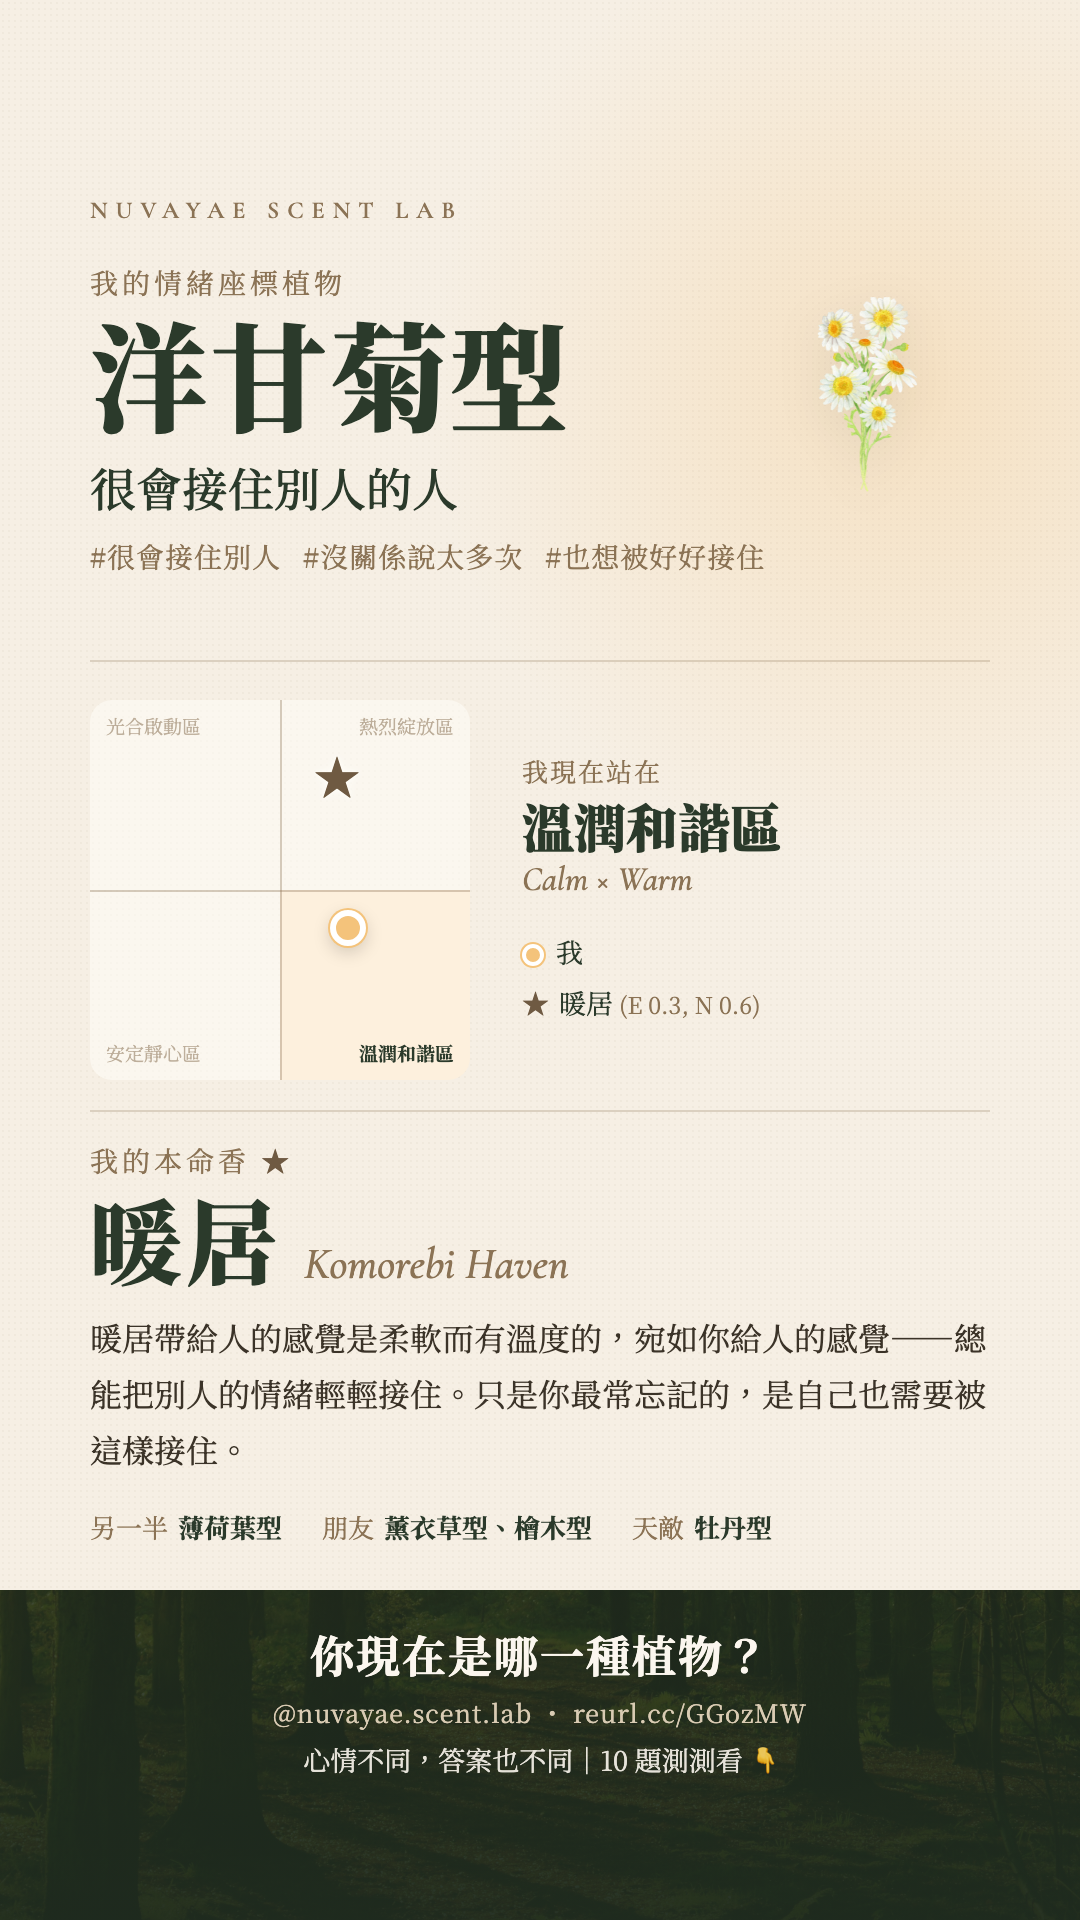
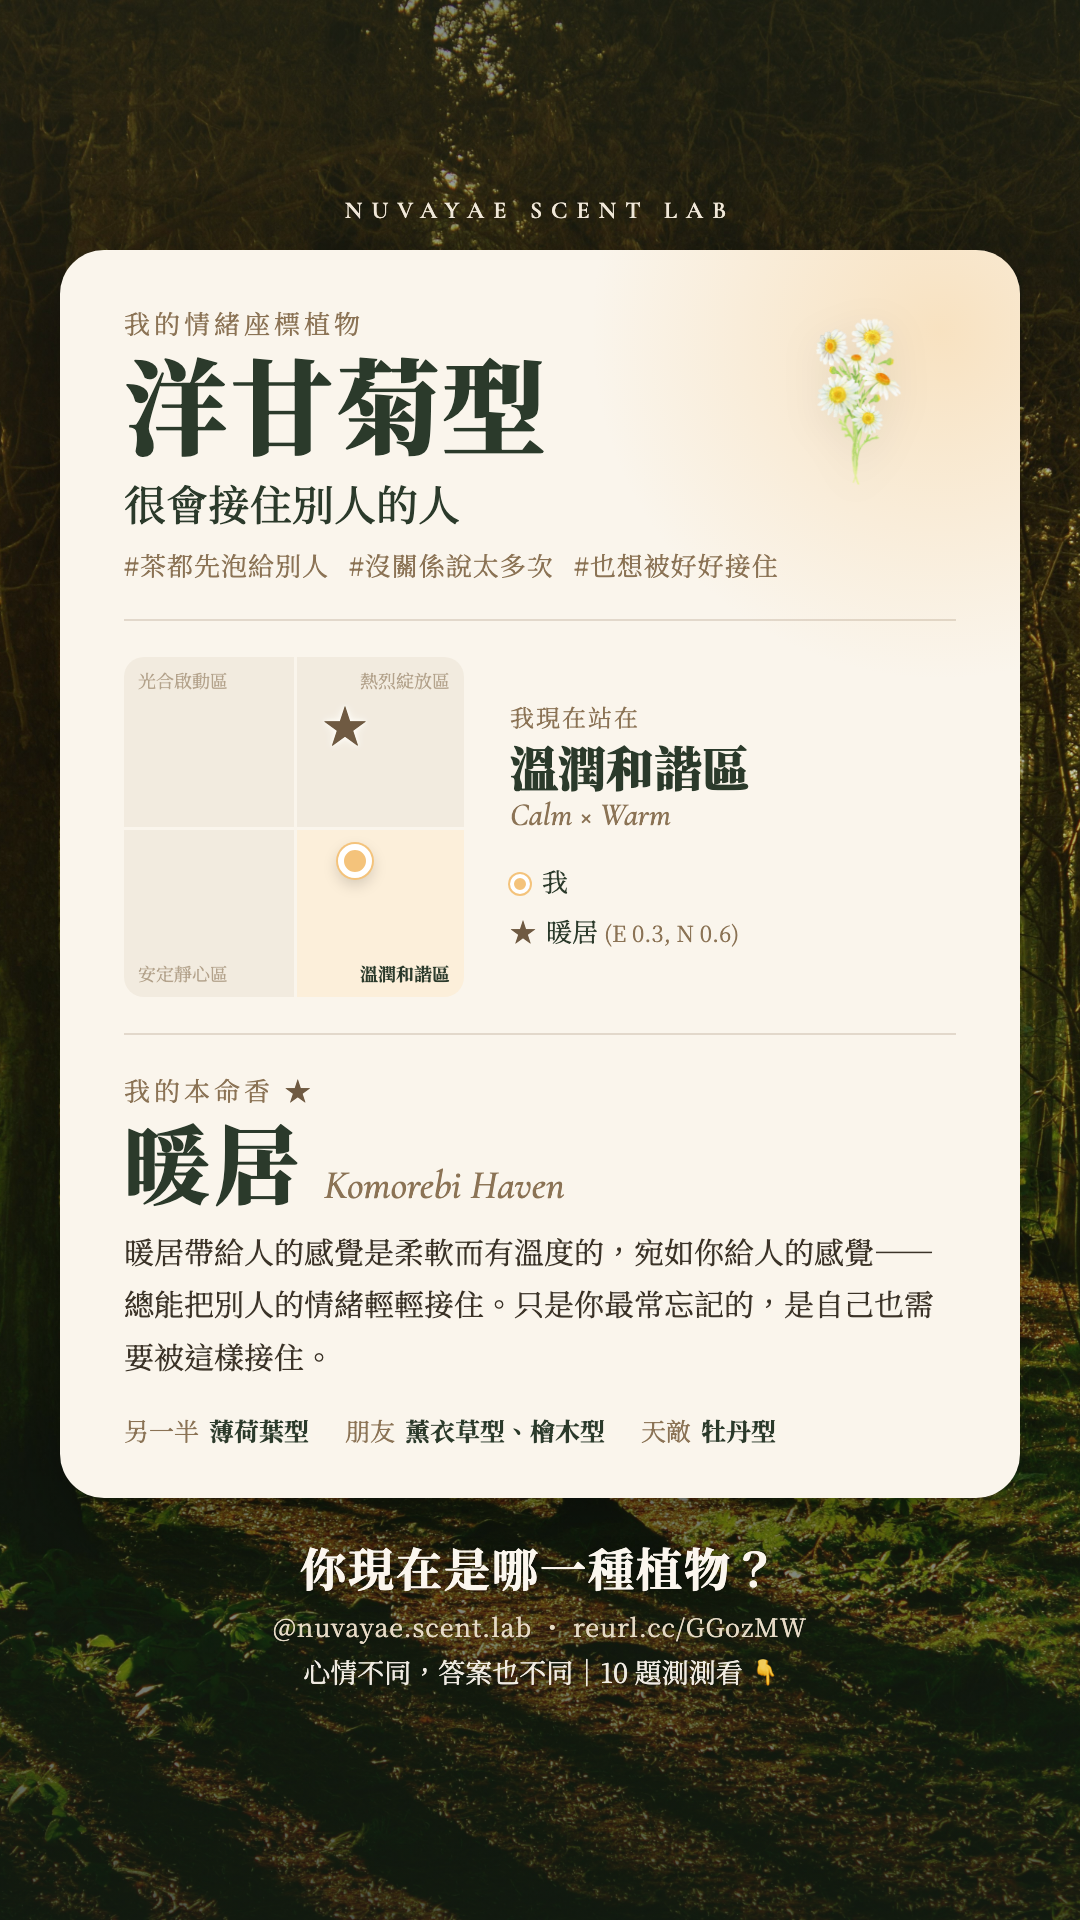
限動分享圖改回森林背景，內容收進一張主卡
- 森林全幅背景＋奶油色主卡，卡內不套框，以字級與留白分層
- 卡片右上植物色暈染、所在象限植物色底
- 呼籲移到卡片下方森林上，下方留給連結貼圖
- 扁柏、檜木、洋甘菊、薄荷葉的人格標籤避免與副標重複
- 分享圖快取版本號更新為 v=7

diff --git a/tools/story-card.html b/tools/story-card.html
@@ -8,12 +8,12 @@
   用法：tools/story-card.html?key=lavender
   產圖：bash tools/render-story-images.sh（輸出到 share/<key>.png）
 
-  設計：雜誌海報式，去掉外框與卡片，用字級和留白分層。
+  設計：森林全幅背景＋一張奶油色主卡，卡內不再套框，用字級與留白分層。
     1. 身分（我是誰）：植物名＋副標那句話＋人格標籤 → 讓人想分享
     2. 座標（我在哪）：象限圖只放兩個點，說明放右側圖例 → 清楚
     3. 本命香（為什麼是這支）：香名放大＋那句話 → 認同感、想擁有
-    4. 底部森林帶：測驗呼籲，下方留空給「連結」貼圖
-  每種植物用自己的顏色做背景暈染與象限底色，六張圖各有個性。
+    4. 卡片下方森林上：測驗呼籲，再往下留空給「連結」貼圖
+  卡片右上用植物自己的顏色做暈染，象限底色也用植物色，六張圖各有個性。
   安全區：上方約 250px、下方約 250px 會被 IG 介面蓋住。
 -->
 <link rel="preconnect" href="https://fonts.googleapis.com">
@@ -21,141 +21,139 @@
 <link href="https://fonts.googleapis.com/css2?family=Cormorant+Garamond:ital,wght@0,500;0,600;1,500&family=Noto+Serif+TC:wght@400;500;700;900&display=swap" rel="stylesheet">
 <style>
   * { box-sizing: border-box; margin: 0; padding: 0; }
-  html, body { width: 1080px; height: 1920px; overflow: hidden; }
-  body { font-family: 'Noto Serif TC', serif; color: #2b3a2b; background: #f6efe4; }
+  html, body { width: 1080px; height: 1920px; overflow: hidden; background: #24331f; }
+  body { font-family: 'Noto Serif TC', serif; color: #2b3a2b; }
 
-  .story { position: relative; width: 1080px; height: 1920px; overflow: hidden; background: #f6efe4; }
-  /* 植物色暈染：每張圖自己的氛圍 */
-  .wash { position: absolute; width: 1100px; height: 1100px; right: -380px; top: -160px; border-radius: 50%;
-          background: radial-gradient(circle, var(--c) 0%, transparent 62%); opacity: 0.32; }
-  .grain { position: absolute; inset: 0; background: radial-gradient(rgba(139,115,85,0.05) 1px, transparent 1px); background-size: 6px 6px; }
+  .story { position: relative; width: 1080px; height: 1920px; overflow: hidden;
+           background: url('../images/forest-bg.jpg') center / cover no-repeat; }
+  .story::before { content: ''; position: absolute; inset: 0;
+    background: linear-gradient(180deg, rgba(28,40,28,0.55) 0%, rgba(28,40,28,0.2) 35%, rgba(28,40,28,0.35) 70%, rgba(20,30,20,0.75) 100%); }
 
-  .inner { position: absolute; left: 90px; right: 90px; top: 0; }
+  .brand { position: absolute; top: 196px; left: 0; right: 0; text-align: center;
+           font-family: 'Cormorant Garamond', serif; font-weight: 600; font-size: 24px; letter-spacing: 9px; color: #f3eadb; }
 
-  .brand { position: absolute; top: 196px; left: 90px; font-family: 'Cormorant Garamond', serif; font-weight: 600;
-           font-size: 24px; letter-spacing: 8px; color: #8b7355; }
+  /* 主卡 */
+  .card { position: absolute; top: 250px; left: 60px; right: 60px;
+          background: #faf5ec; border-radius: 44px; overflow: hidden;
+          padding: 54px 64px 50px; box-shadow: 0 30px 80px rgba(0,0,0,0.35); }
+  .wash { position: absolute; width: 760px; height: 760px; right: -300px; top: -300px; border-radius: 50%;
+          background: radial-gradient(circle, var(--c) 0%, transparent 65%); opacity: 0.38; pointer-events: none; }
+  .card > *:not(.wash) { position: relative; }
 
   /* 1. 身分 */
-  .hero { position: absolute; top: 262px; left: 90px; right: 90px; }
-  .kicker { font-size: 28px; color: #8b7355; letter-spacing: 4px; }
-  .name { font-size: 118px; font-weight: 900; line-height: 1.1; margin-top: 6px; letter-spacing: 2px; }
-  .identity { font-size: 46px; font-weight: 500; margin-top: 18px; line-height: 1.35; }
-  .tags { font-size: 28px; color: #8b7355; margin-top: 18px; letter-spacing: 1px; }
-  .tags span + span { margin-left: 22px; }
-  .plant { position: absolute; right: 70px; top: 270px; width: 270px; height: 270px; object-fit: contain;
-           filter: drop-shadow(0 12px 24px rgba(0,0,0,0.08)); }
+  .plant { position: absolute !important; right: 40px; top: 46px; width: 230px; height: 230px; object-fit: contain;
+           filter: drop-shadow(0 10px 20px rgba(0,0,0,0.08)); }
+  .kicker { font-size: 26px; color: #8b7355; letter-spacing: 4px; }
+  .name { font-size: 104px; font-weight: 900; line-height: 1.1; margin-top: 4px; letter-spacing: 2px; }
+  .identity { font-size: 42px; font-weight: 500; margin-top: 16px; line-height: 1.35; }
+  .tags { font-size: 26px; color: #8b7355; margin-top: 14px; letter-spacing: 1px; }
+  .tags span + span { margin-left: 20px; }
 
-  .rule { position: absolute; left: 90px; right: 90px; height: 0; border-top: 2px solid rgba(139,115,85,0.25); }
+  .rule { border-top: 2px solid rgba(139,115,85,0.22); margin: 36px 0; }
 
   /* 2. 座標 */
-  .coord { position: absolute; top: 700px; left: 90px; right: 90px; display: flex; gap: 52px; align-items: center; }
-  .map { position: relative; flex: 0 0 380px; height: 380px; }
-  .quad { position: absolute; width: 50%; height: 50%; padding: 14px 16px; font-size: 19px; line-height: 1.3;
-          color: rgba(139,115,85,0.55); background: rgba(255,253,248,0.55); }
-  .quad.on { background: color-mix(in srgb, var(--c) 22%, #fffdf8); color: #2b3a2b; font-weight: 700; }
-  .q-tl { left: 0; top: 0; border-top-left-radius: 22px; }
-  .q-tr { right: 0; top: 0; text-align: right; border-top-right-radius: 22px; }
-  .q-bl { left: 0; bottom: 0; display: flex; align-items: flex-end; border-bottom-left-radius: 22px; }
-  .q-br { right: 0; bottom: 0; display: flex; align-items: flex-end; justify-content: flex-end; text-align: right; border-bottom-right-radius: 22px; }
-  .ax-v { position: absolute; left: 50%; top: 0; bottom: 0; border-left: 2px solid rgba(139,115,85,0.35); }
-  .ax-h { position: absolute; top: 50%; left: 0; right: 0; border-top: 2px solid rgba(139,115,85,0.35); }
-  .pt { position: absolute; width: 36px; height: 36px; border-radius: 50%; transform: translate(-50%,-50%);
-        background: var(--c); border: 6px solid #fff; box-shadow: 0 0 0 2px var(--c), 0 6px 18px rgba(0,0,0,0.18); z-index: 2; }
-  .star { position: absolute; transform: translate(-50%,-52%); font-size: 46px; line-height: 1; color: #6f5a42;
+  .coord { display: flex; gap: 46px; align-items: center; }
+  .map { position: relative; flex: 0 0 340px; height: 340px; }
+  .quad { position: absolute; width: 50%; height: 50%; padding: 12px 14px; font-size: 18px; line-height: 1.3;
+          color: rgba(139,115,85,0.6); background: #f2ebdf; }
+  .quad.on { background: color-mix(in srgb, var(--c) 24%, #fffdf8); color: #2b3a2b; font-weight: 700; }
+  .q-tl { left: 0; top: 0; border-top-left-radius: 20px; }
+  .q-tr { right: 0; top: 0; text-align: right; border-top-right-radius: 20px; }
+  .q-bl { left: 0; bottom: 0; display: flex; align-items: flex-end; border-bottom-left-radius: 20px; }
+  .q-br { right: 0; bottom: 0; display: flex; align-items: flex-end; justify-content: flex-end; text-align: right; border-bottom-right-radius: 20px; }
+  .ax-v { position: absolute; left: 50%; top: 0; bottom: 0; border-left: 3px solid #faf5ec; }
+  .ax-h { position: absolute; top: 50%; left: 0; right: 0; border-top: 3px solid #faf5ec; }
+  .pt { position: absolute; width: 34px; height: 34px; border-radius: 50%; transform: translate(-50%,-50%);
+        background: var(--c); border: 6px solid #fff; box-shadow: 0 0 0 2px var(--c), 0 6px 16px rgba(0,0,0,0.18); z-index: 2; }
+  .star { position: absolute; transform: translate(-50%,-52%); font-size: 44px; line-height: 1; color: #6f5a42;
           text-shadow: 0 0 10px #fffdf8, 0 0 4px #fffdf8; z-index: 3; }
 
   .legend { flex: 1; }
-  .legend .lbl { font-size: 26px; color: #8b7355; letter-spacing: 2px; }
-  .legend .zone { font-size: 52px; font-weight: 900; margin-top: 6px; line-height: 1.2; }
-  .legend .en { font-family: 'Cormorant Garamond', serif; font-style: italic; font-size: 34px; color: #8b7355; margin-top: 2px; }
-  .legend .keys { margin-top: 26px; font-size: 27px; line-height: 1.9; }
-  .legend .keys .dot { display: inline-block; width: 22px; height: 22px; border-radius: 50%; background: var(--c);
-                        border: 4px solid #fff; box-shadow: 0 0 0 2px var(--c); vertical-align: -3px; margin-right: 12px; }
+  .legend .lbl { font-size: 24px; color: #8b7355; letter-spacing: 2px; }
+  .legend .zone { font-size: 48px; font-weight: 900; margin-top: 4px; line-height: 1.2; }
+  .legend .en { font-family: 'Cormorant Garamond', serif; font-style: italic; font-size: 32px; color: #8b7355; }
+  .legend .keys { margin-top: 22px; font-size: 26px; line-height: 1.9; }
+  .legend .keys .dot { display: inline-block; width: 20px; height: 20px; border-radius: 50%; background: var(--c);
+                        border: 4px solid #fff; box-shadow: 0 0 0 2px var(--c); vertical-align: -2px; margin-right: 12px; }
   .legend .keys .st { color: #6f5a42; margin-right: 10px; }
-  .legend .keys .num { font-size: 23px; color: #8b7355; margin-left: 6px; }
-  .legend .move { font-size: 23px; color: #8b7355; margin-top: 14px; }
+  .legend .keys .num { font-size: 22px; color: #8b7355; margin-left: 6px; }
 
   /* 3. 本命香 */
-  .soul { position: absolute; top: 1140px; left: 90px; right: 90px; }
-  .soul .lbl { font-size: 28px; color: #8b7355; letter-spacing: 4px; }
+  .soul .lbl { font-size: 26px; color: #8b7355; letter-spacing: 4px; }
   .soul .lbl b { color: #6f5a42; }
-  .soul .scent { display: flex; align-items: baseline; gap: 22px; margin-top: 8px; }
-  .soul .zh { font-size: 92px; font-weight: 900; line-height: 1.1; letter-spacing: 4px; }
-  .soul .en { font-family: 'Cormorant Garamond', serif; font-style: italic; font-size: 44px; color: #8b7355; }
-  .soul .quote { font-size: 32px; line-height: 1.75; margin-top: 18px; color: #3b3328; }
+  .soul .scent { display: flex; align-items: baseline; gap: 20px; margin-top: 4px; }
+  .soul .zh { font-size: 86px; font-weight: 900; line-height: 1.15; letter-spacing: 4px; }
+  .soul .en { font-family: 'Cormorant Garamond', serif; font-style: italic; font-size: 40px; color: #8b7355; }
+  .soul .quote { font-size: 30px; line-height: 1.75; margin-top: 14px; color: #3b3328; }
 
-  .rels { position: absolute; top: 1508px; left: 90px; right: 90px; display: flex; gap: 40px; font-size: 26px; }
+  .rels { display: flex; flex-wrap: wrap; gap: 8px 36px; font-size: 25px; margin-top: 30px; }
   .rels span { color: #8b7355; margin-right: 10px; }
   .rels b { font-weight: 700; }
 
-  /* 4. 底部森林帶 */
-  .band { position: absolute; left: 0; right: 0; top: 1590px; bottom: 0;
-          background: linear-gradient(180deg, rgba(31,43,31,0.86), rgba(31,43,31,0.96)), url('../images/forest-bg.jpg') center 70% / cover; }
-  .cta { position: absolute; left: 0; right: 0; top: 1622px; text-align: center; color: #fbf6ee; }
-  .cta .q { font-size: 44px; font-weight: 700; letter-spacing: 2px; }
-  .cta .meta { font-size: 25px; color: #d9cbb3; margin-top: 8px; letter-spacing: 1px; }
-  .cta .hint { font-size: 27px; color: #fbf6ee; margin-top: 10px; opacity: 0.9; }
+  /* 4. 測驗呼籲（森林上） */
+  .cta { position: absolute; left: 0; right: 0; text-align: center; color: #fbf6ee; }
+  .cta .q { font-size: 46px; font-weight: 700; letter-spacing: 2px; text-shadow: 0 2px 14px rgba(0,0,0,0.4); }
+  .cta .meta { font-size: 25px; color: #e6dac6; margin-top: 8px; letter-spacing: 1px; }
+  .cta .hint { font-size: 27px; margin-top: 8px; opacity: 0.95; }
 </style>
 </head>
 <body>
 <div class="story" id="story">
-  <div class="wash"></div>
-  <div class="grain"></div>
-
   <div class="brand">NUVAYAE SCENT LAB</div>
 
-  <img class="plant" id="img" alt="">
-  <div class="hero">
+  <div class="card" id="card">
+    <div class="wash"></div>
+    <img class="plant" id="img" alt="">
+
     <div class="kicker">我的情緒座標植物</div>
     <div class="name" id="name"></div>
     <div class="identity" id="identity"></div>
     <div class="tags" id="tags"></div>
-  </div>
 
-  <div class="rule" style="top: 660px"></div>
+    <div class="rule"></div>
 
-  <div class="coord">
-    <div class="map" id="map">
-      <div class="quad q-tl" data-q="tl"><span>光合啟動區</span></div>
-      <div class="quad q-tr" data-q="tr"><span>熱烈綻放區</span></div>
-      <div class="quad q-bl" data-q="bl"><span>安定靜心區</span></div>
-      <div class="quad q-br" data-q="br"><span>溫潤和諧區</span></div>
-      <div class="ax-v"></div><div class="ax-h"></div>
-      <div class="pt" id="pt"></div>
-      <div class="star" id="star">★</div>
-    </div>
-    <div class="legend">
-      <div class="lbl">我現在站在</div>
-      <div class="zone" id="zone"></div>
-      <div class="en" id="axes"></div>
-      <div class="keys">
-        <div><span class="dot"></span>我</div>
-        <div><span class="st">★</span><span id="starName"></span><span class="num" id="starNum"></span></div>
+    <div class="coord">
+      <div class="map">
+        <div class="quad q-tl" data-q="tl"><span>光合啟動區</span></div>
+        <div class="quad q-tr" data-q="tr"><span>熱烈綻放區</span></div>
+        <div class="quad q-bl" data-q="bl"><span>安定靜心區</span></div>
+        <div class="quad q-br" data-q="br"><span>溫潤和諧區</span></div>
+        <div class="ax-v"></div><div class="ax-h"></div>
+        <div class="pt" id="pt"></div>
+        <div class="star" id="star">★</div>
+      </div>
+      <div class="legend">
+        <div class="lbl">我現在站在</div>
+        <div class="zone" id="zone"></div>
+        <div class="en" id="axes"></div>
+        <div class="keys">
+          <div><span class="dot"></span>我</div>
+          <div><span class="st">★</span><span id="starName"></span><span class="num" id="starNum"></span></div>
+        </div>
       </div>
     </div>
+
+    <div class="rule"></div>
+
+    <div class="soul">
+      <div class="lbl">我的本命香 <b>★</b></div>
+      <div class="scent"><span class="zh" id="scentZh"></span><span class="en" id="scentEn"></span></div>
+      <div class="quote" id="quote"></div>
+    </div>
+
+    <div class="rels">
+      <div><span>另一半</span><b id="relPartner"></b></div>
+      <div><span>朋友</span><b id="relFriend"></b></div>
+      <div><span>天敵</span><b id="relEnemy"></b></div>
+    </div>
   </div>
 
-  <div class="rule" style="top: 1110px"></div>
-
-  <div class="soul">
-    <div class="lbl">我的本命香 <b>★</b></div>
-    <div class="scent"><span class="zh" id="scentZh"></span><span class="en" id="scentEn"></span></div>
-    <div class="quote" id="quote"></div>
-  </div>
-
-  <div class="rels">
-    <div><span>另一半</span><b id="relPartner"></b></div>
-    <div><span>朋友</span><b id="relFriend"></b></div>
-    <div><span>天敵</span><b id="relEnemy"></b></div>
-  </div>
-
-  <div class="band"></div>
-  <div class="cta">
+  <div class="cta" id="cta">
     <div class="q">你現在是哪一種植物？</div>
     <div class="meta">@nuvayae.scent.lab ・ reurl.cc/GGozMW</div>
     <div class="hint">心情不同，答案也不同｜10 題測測看 👇</div>
   </div>
-  <!-- 1720px 以下留空給使用者放「連結」貼圖 -->
+  <!-- CTA 下方留空給使用者放「連結」貼圖 -->
 </div>
 
 <script type="module">
@@ -166,15 +164,14 @@
   const main = products[d.scent[featured].product];
   const $ = id => document.getElementById(id);
 
-  document.getElementById('story').style.setProperty('--c', d.color);
+  $('story').style.setProperty('--c', d.color);
   $('img').src = '../' + getPlantImage(key);
   $('name').textContent = d.name;
   const [axes, identity] = d.tagline.split('｜');
   $('identity').textContent = identity;
   $('tags').innerHTML = d.persona.traits.map(t => `<span>#${t}</span>`).join('');
 
-  const zh = d.field.split(' ')[0];
-  $('zone').textContent = zh;
+  $('zone').textContent = d.field.split(' ')[0];
   $('axes').textContent = axes.trim();
 
   const me = plantPca(d);
@@ -195,6 +192,11 @@
   $('relPartner').textContent = names(d.relationships.partner.plants);
   $('relFriend').textContent = names(d.relationships.friend.plants);
   $('relEnemy').textContent = names(d.relationships.enemy.plants);
+
+  // 呼籲放在卡片下方 36px
+  await document.fonts.ready;
+  const card = $('card');
+  $('cta').style.top = (card.offsetTop + card.offsetHeight + 36) + 'px';
 </script>
 </body>
 </html>

diff --git a/js/data/plants.js b/js/data/plants.js
@@ -123,7 +123,7 @@ export const plantData = {
         },
         persona: {
             // 分享圖「本命香」區：香氣給人的感覺＝你給人的感覺（外在印象）＋只有你知道的那一面（內在），引起共鳴
-            traits: ["有自己的時區", "不熱絡但很可靠", "冷只是一種省電模式"],
+            traits: ["慢熱但很長情", "不熱絡但很可靠", "冷只是一種省電模式"],
             line: "夜和帶給人的感覺是清冷而篤定的，宛如你給人的感覺——話不多，待在旁邊卻很安心。其實你不是冷，你只是把為數不多的溫柔，留給真正懂你的人。"
         },
         scent: {
@@ -170,7 +170,7 @@ export const plantData = {
         },
         persona: {
             // 分享圖「本命香」區：香氣給人的感覺＝你給人的感覺（外在印象）＋只有你知道的那一面（內在），引起共鳴
-            traits: ["大家的大樹", "答應的事都會做完", "累了也很少說"],
+            traits: ["有你在就安心", "答應的事都會做完", "累了也很少說"],
             line: "暖居帶給人的感覺是溫暖而可靠的，宛如你給人的感覺——像一棵大樹，靠近的人都會先鬆一口氣。只是你也會累，只是你從來不太說。"
         },
         scent: {
@@ -217,7 +217,7 @@ export const plantData = {
         },
         persona: {
             // 分享圖「本命香」區：香氣給人的感覺＝你給人的感覺（外在印象）＋只有你知道的那一面（內在），引起共鳴
-            traits: ["很會接住別人", "沒關係說太多次", "也想被好好接住"],
+            traits: ["茶都先泡給別人", "沒關係說太多次", "也想被好好接住"],
             line: "暖居帶給人的感覺是柔軟而有溫度的，宛如你給人的感覺——總能把別人的情緒輕輕接住。只是你最常忘記的，是自己也需要被這樣接住。"
         },
         scent: {
@@ -264,7 +264,7 @@ export const plantData = {
         },
         persona: {
             // 分享圖「本命香」區：香氣給人的感覺＝你給人的感覺（外在印象）＋只有你知道的那一面（內在），引起共鳴
-            traits: ["行動派", "腦袋停不下來", "忙是一種躲雨的方式"],
+            traits: ["行動派", "行程永遠排太滿", "忙是一種躲雨的方式"],
             line: "暖居帶給人的感覺是明亮又有朝氣的，宛如你給人的感覺——走到哪裡，哪裡就跟著動起來。但你停下來的那一刻，其實比誰都需要一盞暖光。"
         },
         scent: {

diff --git a/js/share.js b/js/share.js
@@ -8,12 +8,12 @@ export class ShareManager {
   constructor() {
     // 預先生成的分享圖片路徑對應
     this.shareImages = {
-      lavender: 'share/lavender.png?v=6',
-      cypress: 'share/cypress.png?v=6',
-      hinoki: 'share/hinoki.png?v=6',
-      chamomile: 'share/chamomile.png?v=6',
-      mint: 'share/mint.png?v=6',
-      peony: 'share/peony.png?v=6'
+      lavender: 'share/lavender.png?v=7',
+      cypress: 'share/cypress.png?v=7',
+      hinoki: 'share/hinoki.png?v=7',
+      chamomile: 'share/chamomile.png?v=7',
+      mint: 'share/mint.png?v=7',
+      peony: 'share/peony.png?v=7'
     };
 
     // 各植物類型的分享文字模板
